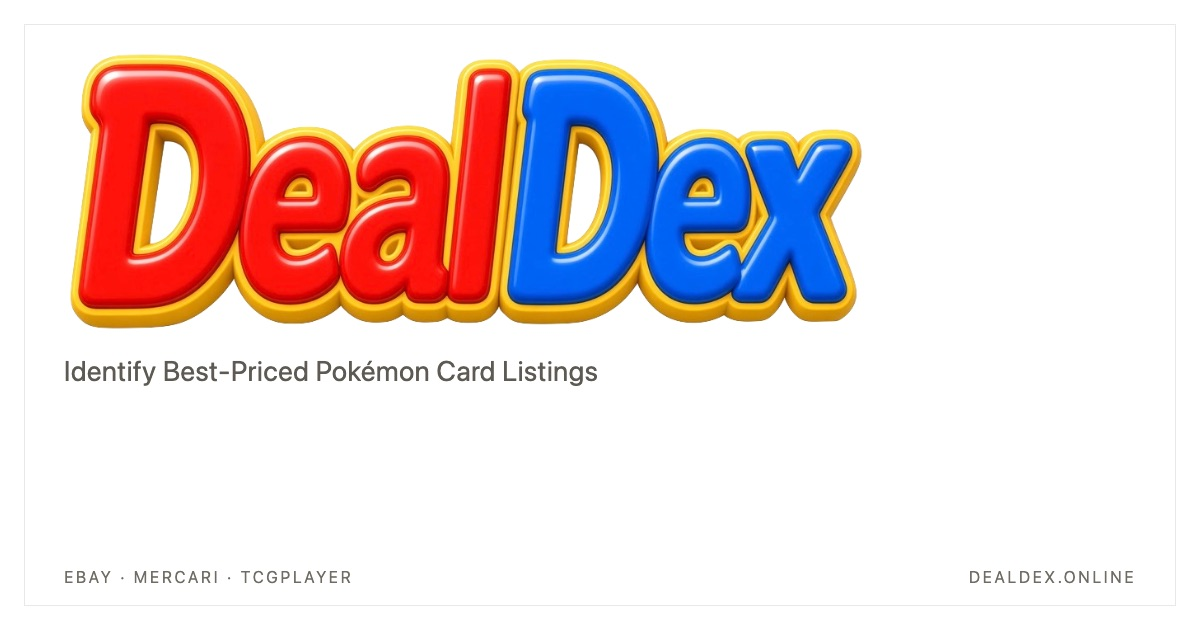
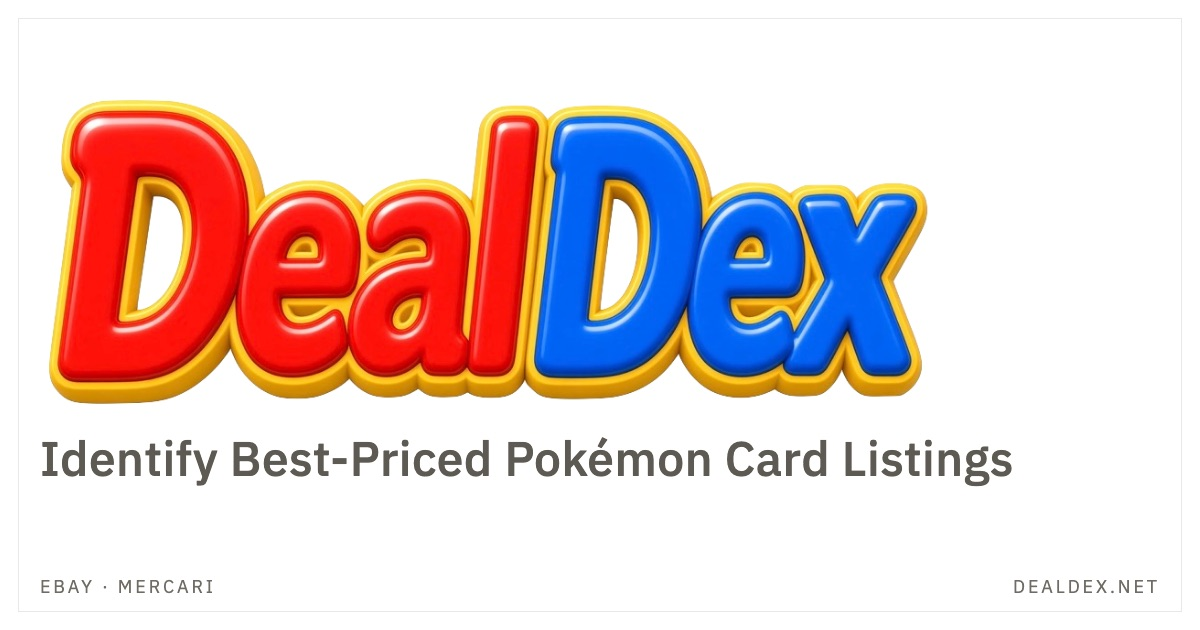
Enlarge OG share card for DealDex.net (#156)
* Enlarge the OG share card and drop TCGPlayer.

Social previews now lead with a large DealDex wordmark and subtitle, list only eBay and Mercari, and show dealdex.net.

* Update OG layout tests for the larger share card.

The old 840px / 75% assertion would fail after the wordmark was sized by height.

---------

diff --git a/scripts/og-dealdex.html b/scripts/og-dealdex.html
@@ -2,7 +2,7 @@
 <html>
   <head>
     <meta charset="utf-8" />
-    <link rel="stylesheet" href="https://fonts.googleapis.com/css2?family=Fraunces:opsz,wght,SOFT,WONK@9..144,500..600,0..100,0..1&family=IBM+Plex+Sans:wght@400;500&display=swap" />
+    <link rel="stylesheet" href="https://fonts.googleapis.com/css2?family=IBM+Plex+Sans:wght@400;500&display=swap" />
     <style>
       html, body { margin: 0; padding: 0; width: 1200px; height: 630px; overflow: hidden; }
       body {
@@ -14,42 +14,47 @@
         width: 1200px;
         height: 630px;
         box-sizing: border-box;
-        padding: 48px 64px;
+        padding: 36px 40px 88px;
         background: #ffffff;
         position: relative;
+        display: flex;
+        flex-direction: column;
+        justify-content: center;
+        align-items: stretch;
       }
       .rule {
         position: absolute;
-        inset: 24px;
+        inset: 18px;
         border: 1px solid rgba(26, 27, 22, 0.1);
         pointer-events: none;
       }
-      /* 840px = 70% of 1200.  Cap at 75% so the mark fills 2/3–3/4 of the card. */
       .wordmark {
         display: block;
-        width: 840px;
-        height: auto;
-        max-width: 75%;
+        width: auto;
+        height: 400px;
+        max-width: 1120px;
+        max-height: 64%;
         object-fit: contain;
         object-position: left center;
       }
       p {
-        margin: 18px 0 0;
-        font-size: 28px;
+        margin: 16px 0 0;
+        font-size: 48px;
+        font-weight: 500;
         color: #5c5a52;
         letter-spacing: 0.01em;
-        max-width: 920px;
-        line-height: 1.3;
+        max-width: 1120px;
+        line-height: 1.2;
       }
       .foot {
         position: absolute;
-        left: 64px;
-        right: 64px;
-        bottom: 44px;
+        left: 40px;
+        right: 40px;
+        bottom: 32px;
         display: flex;
         justify-content: space-between;
         color: #6f6c63;
-        font-size: 16px;
+        font-size: 18px;
         letter-spacing: 0.16em;
         text-transform: uppercase;
       }
@@ -61,7 +66,7 @@
       <img class="wordmark" src="../public/marks/dealdex-wordmark.png" alt="DealDex" />
       <p>Identify Best-Priced Pokémon Card Listings</p>
       <div class="foot">
-        <span>eBay · Mercari · TCGPlayer</span>
+        <span>eBay · Mercari</span>
         <span>dealdex.net</span>
       </div>
     </div>

diff --git a/src/routes/__root.tsx b/src/routes/__root.tsx
@@ -13,7 +13,7 @@ import appCss from "../styles.css?url";
 
 const APP_NAME = "DealDex";
 const host = import.meta.env.VITE_PUBLIC_HOSTNAME || "dealdex.net";
-const ogImage = `https://${host}/og.jpg?v=subtitle-20260821`;
+const ogImage = `https://${host}/og.jpg?v=share-20260823`;
 
 export const Route = createRootRoute({
   head: () => ({

diff --git a/docs/EFFORT-LOG.md b/docs/EFFORT-LOG.md
@@ -36,6 +36,7 @@ Protocol: /Users/jay/apps/EFFORT-LOG-PROTOCOL.md (canonical). Live board: this f
 - **2026-08-13 — GROK — COMPLETED — CI uses npm install (PR #3).** Main CI verify is green (lint/typecheck/test/build).
 - **2026-08-13 — GROK — COMPLETED — Fleet onboard merged (PR #1).** `~/Code/DealDex` is `jaywedgeworth22/DealDex`.  AGENTS.md, effort board, Slack `repo: DealDex` / `DD`.
 ## In Progress
+- **2026-08-23 — CURSOR — IN PROGRESS — Enlarge OG share card; drop TCGPlayer; DealDex.net.**  Branch `cursor/og-share-layout`, worktree `~/apps/dealdex-cursor-og`.  Footer eBay · Mercari + dealdex.net.  Cache-bust `og.jpg?v=share-20260823`.
 - **2026-08-22 — CURSOR — IN PROGRESS — Publish native Android + iOS with website scan scoring.**  Branch `cursor/native-publish`, worktree `~/apps/dealdex-cursor`.  Android now posts to `/api/native/scan` like iOS; rebuild `public/DealDex.apk`; TestFlight via ios-fleet (`net.dealdex`).
 
 ## Completed

diff --git a/STATUS.md b/STATUS.md
@@ -90,8 +90,9 @@ All / Deals / Verified plus compact filter selects stay in the same card.
 Desktop and iPad show two listing cards per row (`md:grid-cols-2`, iOS
 `horizontalSizeClass == .regular`, Android `screenWidthDp >= 600`).
 
-OG wordmark is 840px (~70% of 1200), capped at 75%.  Re-render:
-`node scripts/render-og.mjs`.  Cache-bust `og.jpg?v=subtitle-20260821`.
+OG wordmark is ~400px tall (most of the 630 card) with a 48px subtitle.
+Footer is eBay · Mercari and dealdex.net (no TCGPlayer).  Re-render:
+`node scripts/render-og.mjs`.  Cache-bust `og.jpg?v=share-20260823`.
 
 
 ## 2026-08-20 CURSOR — transparent DD favicon + ST-grid AppIcon
